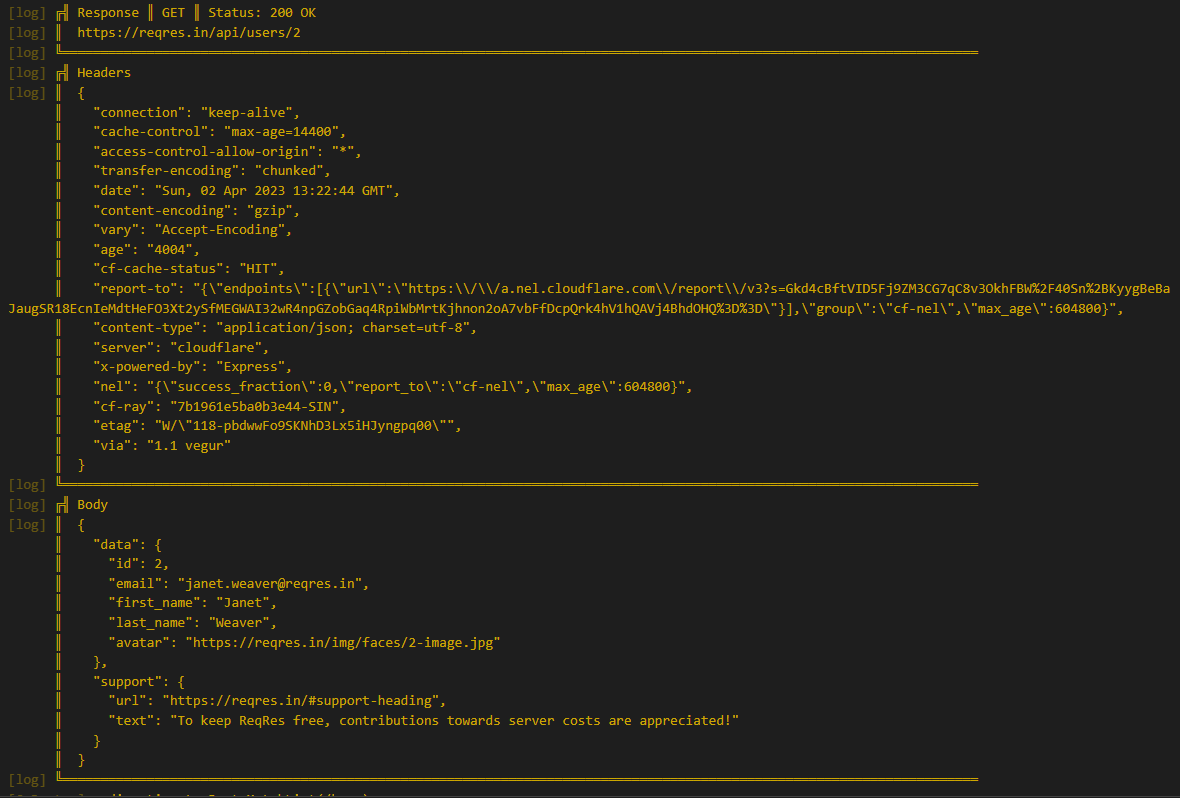
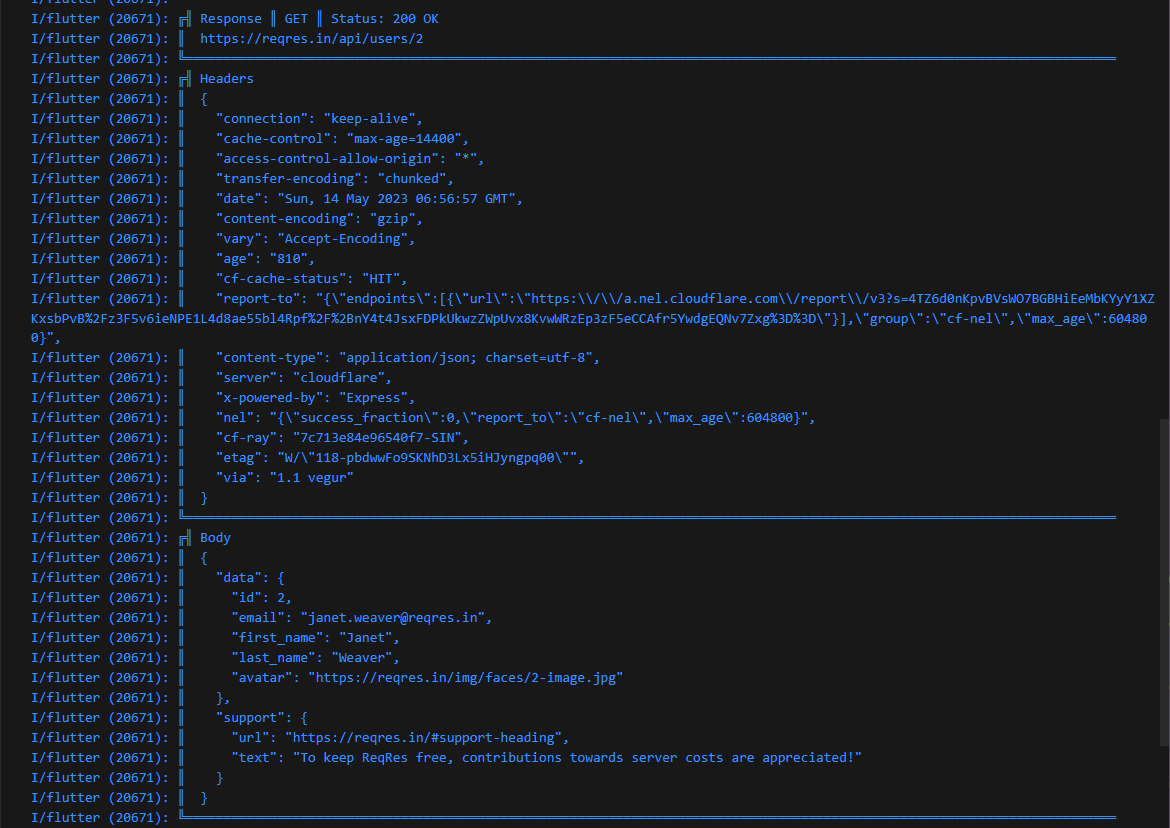
feat: version 1.0.5 update

Changed region(s): [[0.0, 0.0, 1.0, 1.0]]

diff --git a/lib/pretty_chopper_logger.dart b/lib/pretty_chopper_logger.dart
@@ -2,10 +2,9 @@ library pretty_chopper_logger;
 
 import 'dart:async';
 import 'dart:convert';
-import 'dart:developer';
 
 import 'package:chopper/chopper.dart';
-import 'package:dartz/dartz.dart';
+import 'package:flutter/foundation.dart';
 import 'package:http/http.dart' as http;
 
 /// A [RequestInterceptor] and [ResponseInterceptor] implementation which logs
@@ -63,14 +62,14 @@ class PrettyChopperLogger implements RequestInterceptor, ResponseInterceptor {
 
     if (_logHeaders) {
       _printHeaderBody(
-        prettyJson: _jsonFormat(left(base.headers)),
+        prettyJson: _jsonFormat(base.headers),
         title: 'Headers',
       );
     }
 
     if (_logBody && base is http.Request && bodyMessage.isNotEmpty) {
       _printHeaderBody(
-        prettyJson: _jsonFormat(right(bodyMessage)),
+        prettyJson: _jsonFormat(bodyMessage),
         title: 'Body',
       );
     }
@@ -108,14 +107,14 @@ class PrettyChopperLogger implements RequestInterceptor, ResponseInterceptor {
 
     if (_logHeaders) {
       _printHeaderBody(
-        prettyJson: _jsonFormat(left(response.headers)),
+        prettyJson: _jsonFormat(response.headers),
         title: 'Headers',
       );
     }
 
     if (_logBody) {
       _printHeaderBody(
-        prettyJson: _jsonFormat(right(bodyMessage)),
+        prettyJson: _jsonFormat(bodyMessage),
         title: 'Body',
       );
     }
@@ -123,31 +122,34 @@ class PrettyChopperLogger implements RequestInterceptor, ResponseInterceptor {
     return response;
   }
 
-  String _jsonFormat(
-    Either<Map<dynamic, dynamic>, String> source,
-  ) =>
-      JsonEncoder.withIndent(' ' * 2).convert(
-        source.fold(id, (String src) => const JsonDecoder().convert(src)),
-      );
+  String _jsonFormat(dynamic source) {
+    final JsonEncoder encoder = JsonEncoder.withIndent(' ' * 2);
+    if (source is Map) {
+      return encoder.convert(source);
+    } else if (source is String) {
+      return encoder.convert(const JsonDecoder().convert(source));
+    } else {
+      return '';
+    }
+  }
 
   void _printRequestResponse({String? title, String? text}) {
-    log('╔╣ $title');
-    log('║  $text');
-    log('╚═${'═' * _maxWidth}');
+    debugPrint('╔╣ $title');
+    debugPrint('║  $text');
+    debugPrint('╚═${'═' * _maxWidth}');
   }
 
   void _printHeaderBody({required String title, required String prettyJson}) {
     if (prettyJson.trim().isNotEmpty && prettyJson != '{}') {
-      log('╔╣ $title');
       String addBorder = '';
-
       prettyJson.split('\n').forEach((String element) {
         element.length == 1 && (element == '{' || element == '}')
             ? addBorder += '║  $element\n'
             : addBorder += '║   ${element.substring(1, element.length)}\n';
       });
-      log(addBorder.trim());
-      log('╚═${'═' * _maxWidth}');
+      debugPrint('╔╣ $title');
+      debugPrint(addBorder.trim());
+      debugPrint('╚═${'═' * _maxWidth}');
     }
   }
 }

diff --git a/README.md b/README.md
@@ -4,8 +4,8 @@
 
 Pretty Chopper logger is a [Chopper](https://pub.dev/packages/chopper) interceptor that logs network calls in a pretty, easy to read format.
 
-
 This package is inspired by [pretty_dio_logger](https://pub.dev/packages/pretty_dio_logger) package.
+
 ## Usage
 
 Simply add PrettyChopperLogger to your Chopper interceptors.
@@ -22,7 +22,5 @@ final ChopperClient chopper = ChopperClient(
 ```
 
 ## How it looks like
-
-### VS Code
 
 ![Response Example](https://raw.github.com/Arnooodles/pretty_chopper_logger/main/images/sample.png 'Response Example')

diff --git a/CHANGELOG.md b/CHANGELOG.md
@@ -1,15 +1,26 @@
+## [1.0.5]
+
+- feat: update to flutter 3.10 and dart 3.0
+- refactor: remove dartz
+- chore: update sample image
+- chore: update dependencies to latest version
+
 ## [1.0.4]
 
 - fix(README): fix newline break
+
 ## [1.0.3]
 
 - chore: remove flutter sdk dependencies
+
 ## [1.0.2]
 
 - docs: improve documentation and code comments
+
 ## [1.0.1]
 
 - fix(README): fix sample image.
+
 ## [1.0.0]
 
 - initial release.
